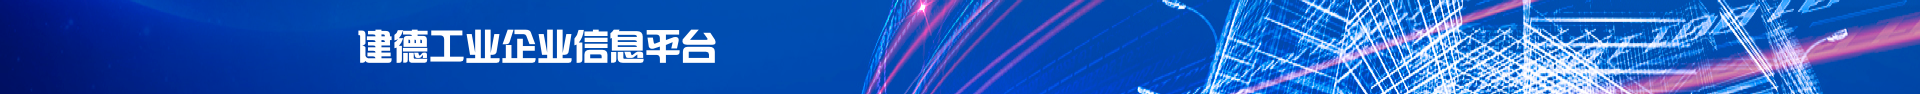
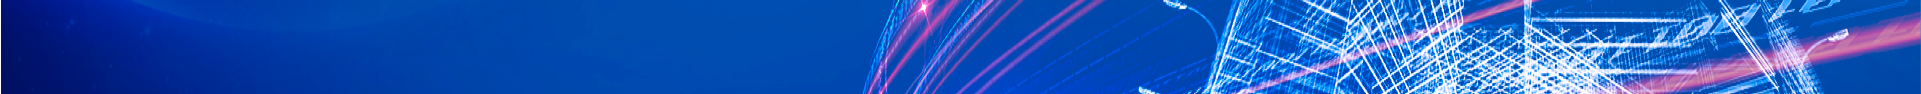
style: 页面样式调整

diff --git a/layouts/index.vue b/layouts/index.vue
@@ -3,22 +3,26 @@
 
     <div class="header">
       <div class="topbackground">
-        <img class="frontHeader" src="" alt="">
+        <div style="width: 1200px;height:100px;margin: 0 auto;">
+          <img class="frontHeader" src="./../assets/img/frontHeaderIcon2.png" alt="">
+        </div>
       </div>
-      <div class="nav">
-        <p class="navLeft">
-          <nuxt-link :to="{name:'front'}">首页</nuxt-link>
-          <!-- <span></span> -->
-          <img class="heightline" src="./../assets/img/heightLine.png" alt="">
-          <nuxt-link :to="{name:'front-dataAnalysis'}">数据分析</nuxt-link>
-          <!-- <span></span> -->
-          <img class="heightline" src="./../assets/img/heightLine.png" alt="">
-          <nuxt-link :to="{name:'front-enterprise', query: {scrollY: $route.query.scrollY}}">企业管理</nuxt-link>
-        </p>
-        <p class="navRight">
-          <nuxt-link @click="loginOut" :to="{name:'index'}">
-            <i class="el-icon-remove-outline"></i> 退出</nuxt-link>
-        </p>
+      <div class="gradient">
+        <div class="nav">
+          <p class="navLeft">
+            <nuxt-link :to="{name:'front'}">首页</nuxt-link>
+            <!-- <span></span> -->
+            <img class="heightline" src="./../assets/img/heightLine.png" alt="">
+            <nuxt-link :to="{name:'front-dataAnalysis'}">数据分析</nuxt-link>
+            <!-- <span></span> -->
+            <img class="heightline" src="./../assets/img/heightLine.png" alt="">
+            <nuxt-link :to="{name:'front-enterprise', query: {scrollY: $route.query.scrollY}}">企业管理</nuxt-link>
+          </p>
+          <p class="navRight">
+            <nuxt-link @click="loginOut" :to="{name:'index'}">
+              <i class="el-icon-remove-outline"></i> 退出</nuxt-link>
+          </p>
+        </div>
       </div>
     </div>
     <nuxt id="content" />
@@ -112,28 +116,35 @@ a {
 .header {
   width: 100%;
   min-width: 1460px;
-  background:#0267ca;
-  background: -moz-linear-gradient(top, #0267ca 0%, #072fa0 100%);
-  background: -webkit-gradient(linear, left top, left bottom, color-stop(0%, #0267ca), color-stop(100%, #072fa0));
-  background: -webkit-linear-gradient(top, #0267ca 0%, #072fa0 100%);
-  background: -webkit-gradient(linear, 0 0, 0 100%, from(#0267ca), to(#072fa0));
-  background: -webkit-linear-gradient(left, #0267ca, #072fa0);
-  background: -o-linear-gradient(top, #0267ca 0%, #072fa0 100%);
-  background: -ms-linear-gradient(top, #0267ca 0%, #072fa0 100%);
-  background: linear-gradient(to bottom, #0267ca 0%, #072fa0 100%);
   .topbackground{
     background:url(./../assets/img/frontHeaderBg.png)no-repeat;
-    padding-left: 356px;
+    
     height:100px;
     background-size:100% 100%;
     .frontHeader{
-      margin-top: 10px;
+      margin-top: 30px;
     }
   }
 }
+.gradient{
+  width: 100%;
+  height: 40px;
+  background:#2963D4;
+  background: -moz-linear-gradient(top, #2963D4 0%, #004BAC 100%);
+  background: -webkit-gradient(linear, left top, left bottom, color-stop(0%, #2963D4), color-stop(100%, #004BAC));
+  background: -webkit-linear-gradient(top, #2963D4 0%, #004BAC 100%);
+  background: -webkit-gradient(linear, 0 0, 0 100%, from(#2963D4), to(#004BAC));
+  background: -webkit-linear-gradient(left, #2963D4, #004BAC);
+  background: -o-linear-gradient(top, #2963D4 0%, #004BAC 100%);
+  background: -ms-linear-gradient(top, #2963D4 0%, #004BAC 100%);
+  background: linear-gradient(to bottom, #2963D4 0%, #004BAC 100%);
+}
+
 .nav {
   width: 1200px;
-  height: 50px;
+  height: 40px;
+  position: relative;
+  bottom: 5px;
   line-height: 50px;
   margin: 0 auto;
   z-index: 9999;
